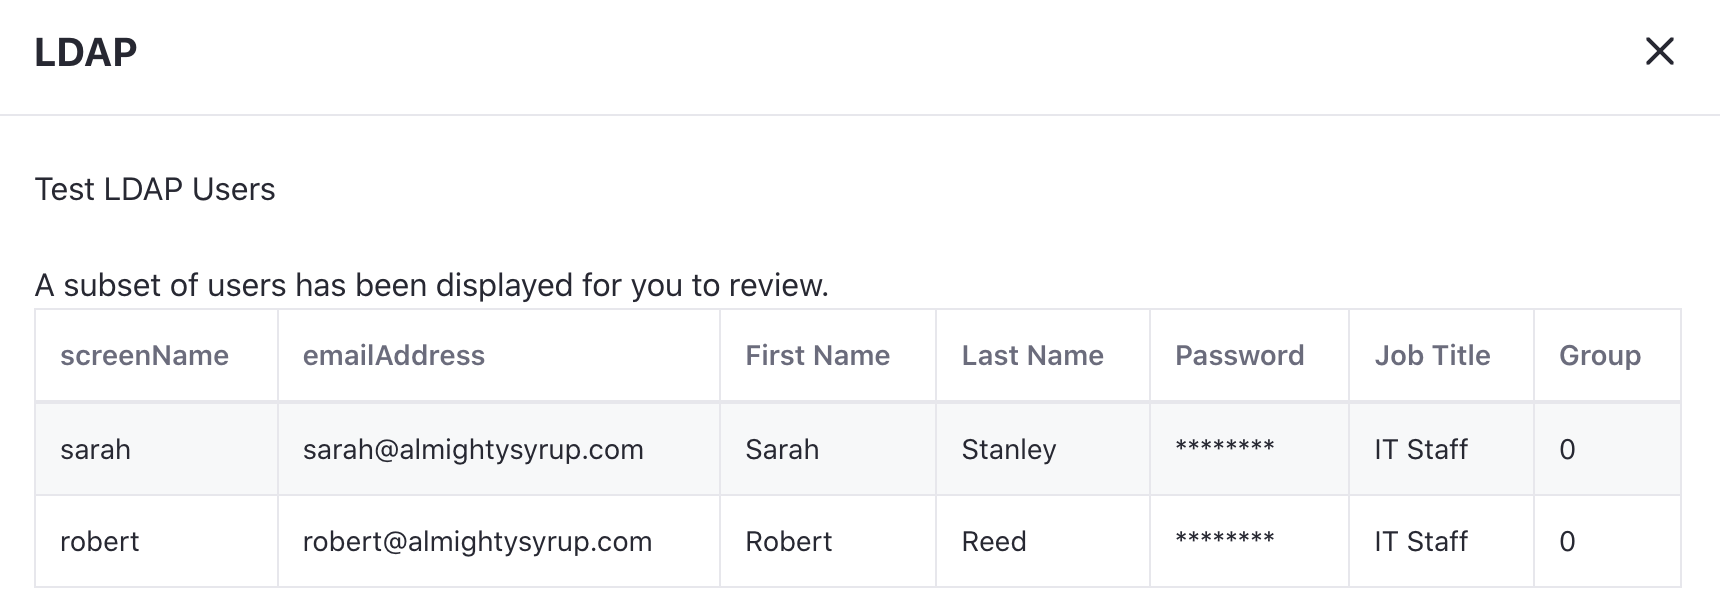
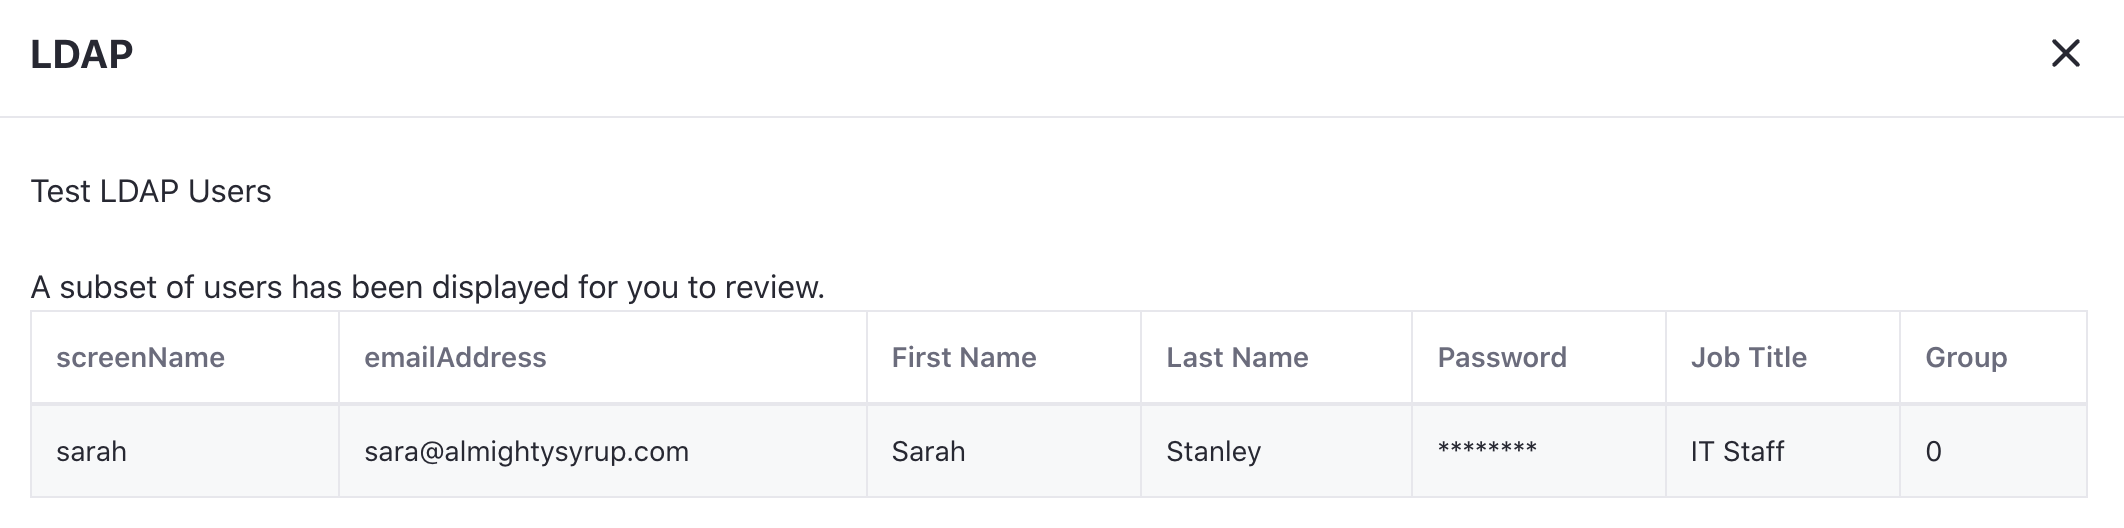
LRDOCS-11655 add OpenLDAP

diff --git a/docs/courses/latest/en/liferay-administrator/user-data/connecting-to-ldap.md b/docs/courses/latest/en/liferay-administrator/user-data/connecting-to-ldap.md
@@ -5,7 +5,64 @@ uuid: 9540baaf-7e04-40a2-9a4a-1409d3526092
 
 An LDAP server can be configured at the system level or instance level in Liferay. Choose the [configuration scope](https://learn.liferay.com/w/dxp/system-administration/configuring-liferay/understanding-configuration-scope) based on your needs. Note, when configuring at the system scope, you must specify each instance ID. See [Connecting to an LDAP Directory](https://learn.liferay.com/w/dxp/users-and-permissions/connecting-to-a-user-directory/connecting-to-an-ldap-directory).
 
-Delectable Bonsai must import user data from a company they just acquired. Connect to the company's LDAP server with the steps below.
+Delectable Bonsai must import user data from a company they just acquired. In real life, you'd already have an LDAP server to use. Here, you'll simulate one.
+
+1. Start a new OpenLDAP container.
+
+   ```bash
+   docker run \
+	   --env LDAP_ORGANISATION="Almighty Syrup" \
+	   --env LDAP_DOMAIN="almightysyrup.com" \
+	   --env LDAP_BASE_DN="dc=almightysyrup,dc=com" \
+	   --name almightysyrupldap \
+	   -p 389:389 \
+	   -p 636:636 \
+	   osixia/openldap:1.5.0
+   ```
+
+1. Find the IP address of the `almightysyrupldap` container. This will be used in the configuration step below.
+
+   ```bash
+   docker network inspect bridge
+   ```
+
+1. Generate an LDIF file that will be used to seed the LDAP with a user and a user group.
+
+   ```bash
+   cat <<EOT >> sarah.ldif
+   dn: cn=sarah,dc=almightysyrup,dc=com
+   objectClass: inetOrgPerson
+   objectClass: organizationalPerson
+   objectClass: person
+   objectClass: top
+   cn: Sarah
+   sn: Stanley
+   givenName: Sarah
+   mail: sara@almightysyrup.com
+   title: IT Staff
+   userPassword: learn
+
+   cn: almightysyrup
+   dn: cn=almightysyrup,dc=almightysyrup,dc=com
+   objectClass: groupOfUniqueNames
+   objectClass: top
+   uniqueMember: cn=sarah,dc=almightysyrup,dc=com
+   EOT
+   ```
+
+1. In terminal, navigate to the same folder as the LDIF file. Copy the file into the container.
+
+   ```bash
+   docker cp sarah.ldif almightysyrupldap:/container/service/slapd/assets/test
+   ```
+
+1. Add the entry into the OpenLDAP server.
+
+   ```bash
+   docker exec almightysyrupldap ldapadd -x -D "cn=admin,dc=almightysyrup,dc=com" -w admin -f /container/service/slapd/assets/test/sarah.ldif -H ldap://localhost
+   ```
+
+Now in Liferay, connect to the company's LDAP server with the steps below. 
 
 1. Navigate to _Global Menu_ (![Global Menu](../../images/icon-applications-menu.png)) &rarr; _Control Panel_ &rarr; _Instance Settings_. 
 
@@ -18,7 +75,7 @@ Delectable Bonsai must import user data from a company they just acquired. Conne
 1. In the new page, fill in the LDAP connection information.
 
    * Server Name: `Almighty Syrup`
-   * Base Provider URL: `ldap://127.0.0.1:389`
+   * Base Provider URL: `ldap://[IP address]:389`
    * Base DN: `dc=almightysyrup,dc=com`
    * Principal: `cn=admin,dc=almightysyrup,dc=com`
    * Credentials: `learn`
@@ -31,7 +88,7 @@ Delectable Bonsai must import user data from a company they just acquired. Conne
 
    ![Fill in the user fields information.](./connecting-to-ldap/images/02.png)
 
-1. Next, fill out the LDAP groups information. Click _Test LDAP Groups_ to see a preview.
+1. Next, fill out the LDAP groups information. Click _Test LDAP Groups_ to verify that the `almightysyrup` user group is visible.
 
 1. Finally, fill out the LDAP export information. Click _Save_.
 
